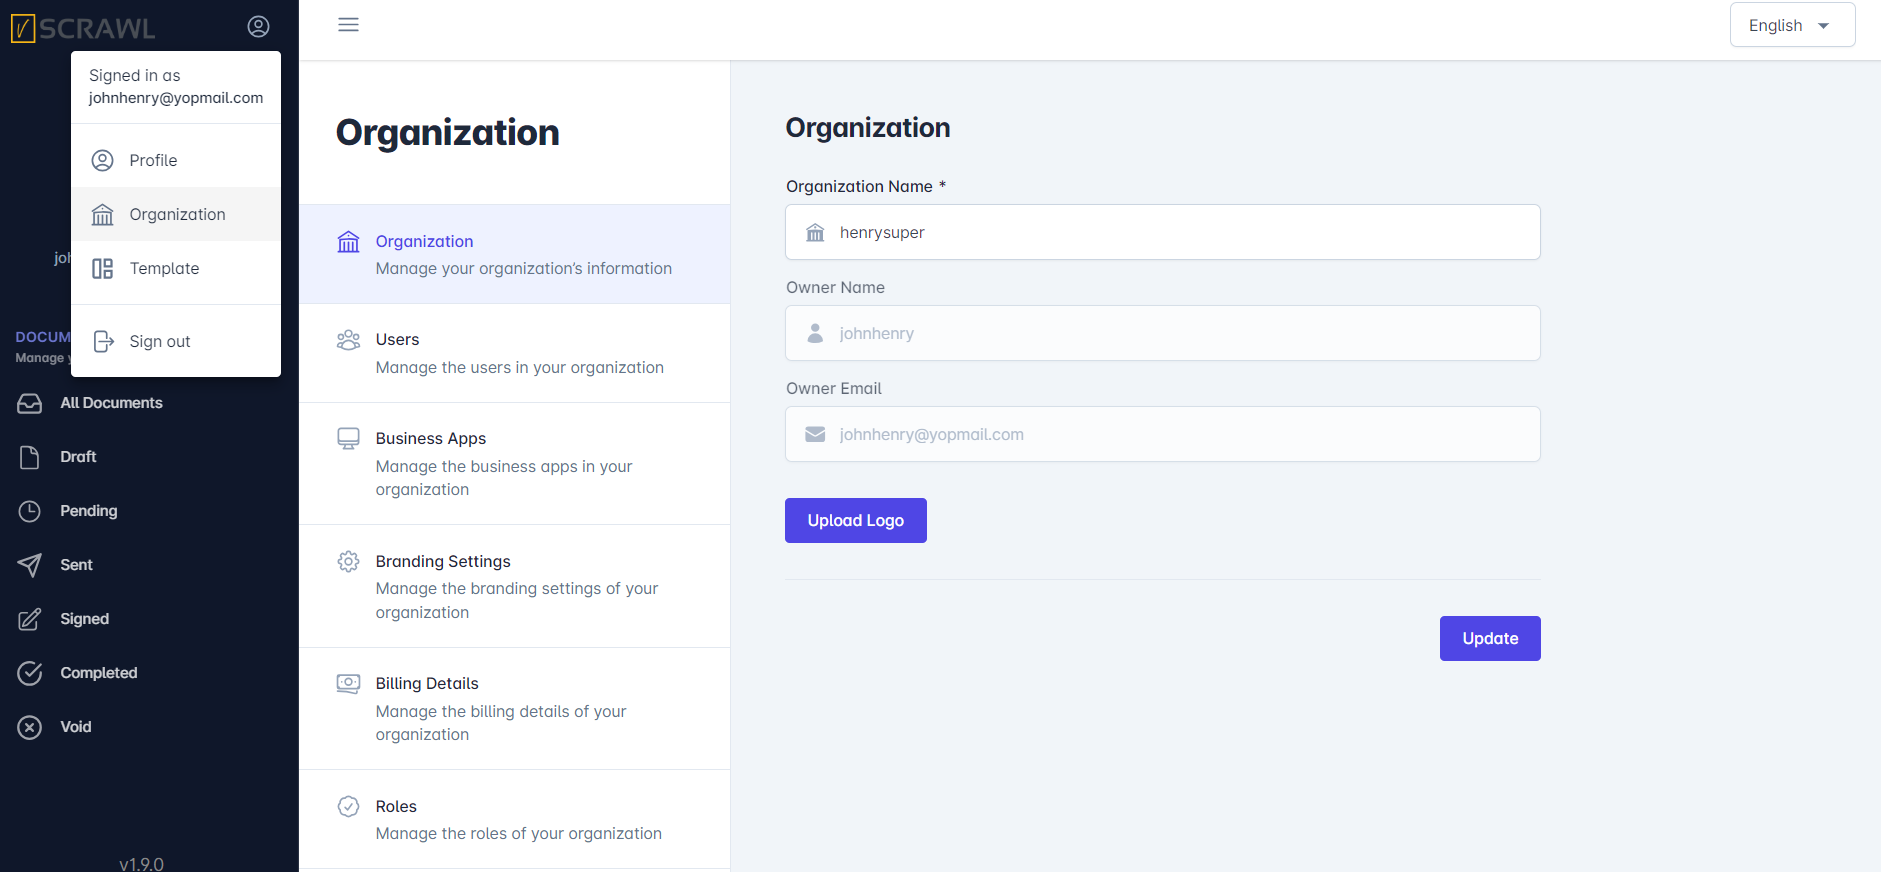
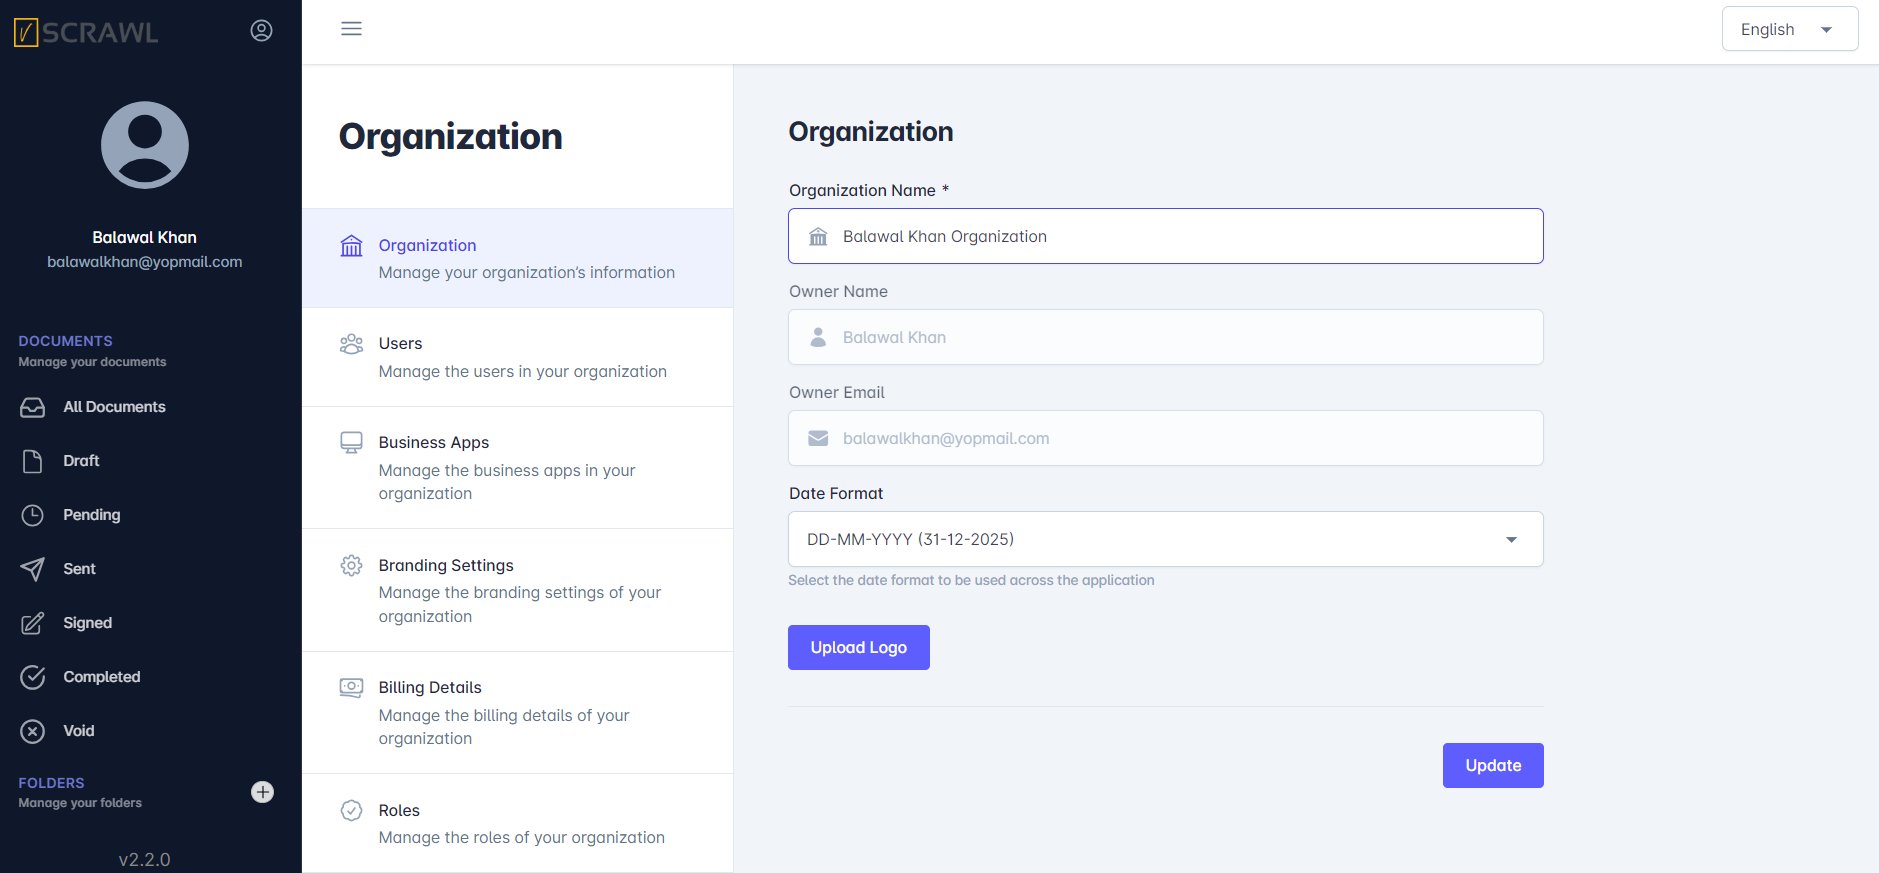
Including changes for Sprint 44

diff --git a/docs/settings.md b/docs/settings.md
@@ -26,8 +26,11 @@ The **Profile Settings page** in vScrawl allows you to manage your **account det
 ### Security Settings
 
 - Here you can set the security settings for your account by setting up:  
+    Enable PassKey
     Enable Security Question  
     Enable 2-Factor Authentication
+    Enable Smart Card Authentication
+    
 
 ![vScrawl Settings](../images/security-settings.png)
 
@@ -63,7 +66,6 @@ Here you can **choose** how you **receive updates**:
 
 ![vScrawl Settings](../images/notification-settings.png)
 
-
 ## Organization Specific Settings
 ### Organization
 
@@ -71,9 +73,12 @@ Here you can see the **organization details**:
 **Organization Name**  
 **Owner Name**  
 **Owner Email**
+**Date Format**
 
 ![vScrawl Settings](../images/organization-details.png)
 
+> [!NOTE]
+> Only the **Organization Owner** has the authority to update the organization details.
 
 ### Roles
 Here you can **add roles** with different **permissions** and will **assign that role for inviting a new user** to your **organization.** The **roles** you will create will appear hear in the list. You can search different **roles** by using the **search** option.
@@ -109,11 +114,16 @@ Here you can **add roles** with different **permissions** and will **assign that
 ### Business Apps
 
 - You can add Business App or any third party app with vScrawl by adding proper details of the app like:  
-    **Client ID**  
-    **App name**  
-    **Description**  
-    **Call back URL**  
-    **Status**
+    
+    **Client ID** - A unique identifier generated for the application to authenticate with vScrawl.
+    
+    **App name** - The display name of the business or third-party application.
+    
+    **Description** - A brief summary describing the purpose of the application.
+    
+    **Call back URL**  The URL where vScrawl redirects the user after successful authentication.
+    
+    **Status** - Indicates whether the application is active or inactive.
 
 ![vScrawl Settings](../images/business-app-in-organization.png)
 

diff --git a/docs/signin.md b/docs/signin.md
@@ -18,11 +18,30 @@ You can sign in using either **Google authentication** or **Key cloak authentica
 
 Alternatively, if your organization uses Key cloak, click **“Continue with Key cloak”** and enter your Key cloak username and password. Once authenticated, you will be redirected to the **vScrawl** **Dashboard**.
 
-## Sign Up/Sign In with the Smart Card Using the SmartXipher App
+## Signup / Sign-in with the Smart Card Using the SmartXipher App
 
 vScrawl provides secure authentication through **Smart Card login** using the **SmartXipher App**. This ensures strong identity verification and protects access to your account.
 
 When a user chooses to sign in with a **Smart Card**, the system verifies their **digital certificate** through **SmartXipher**. Once the **certificate** is validated, the user is securely logged into their **dashboard.**
 
 ![vScrawl Signin](../images/smart-card-login.png)
+
+## Sign-in Using Passkey
+
+To sign in to vScrawl using a passkey, first open the login page and enter your registered email address, then click **“Login with Passkey.”** A dialog titled **“Sign in using a saved passkey”** will appear, allowing you to choose how you want to authenticate. You can select **Windows Hello or an external security key** to sign in using your device’s fingerprint, face recognition, PIN, or a USB security key. 
+
+Alternatively, you can choose **Use a phone or tablet**, which will display a QR code on the screen; scan this QR code using your mobile phone and approve the sign-in using your device’s biometric authentication or screen lock. Once the authentication is successfully completed, you will be automatically logged in to your vScrawl account without entering a password.
+
+![vScrawl Signin](../images/pass-key-login.png)
+
+
+
+
+
+
+
+
+
+
+
 

diff --git a/docs/workflows.md b/docs/workflows.md
@@ -15,6 +15,10 @@ This is the most common and straightforward signing option.
 
 ![vScrawl Documents](../images/doc-prep-screen-with-filled-annations-2.png)
 
+> [!NOTE]
+> **Field Requirements:** Fields with the **Required Toggle (Right Panel)** set to **Enabled** must be filled to sign; otherwise, all fields are optional.
+
+
 - For the **New User** You have to **Choose how to create your signature:** Upload an **Image,** **Draw, or use Text.**
 
 ![vScrawl Documents](../images/signature-creation-screen-new-user.png)
@@ -30,6 +34,7 @@ This is the most common and straightforward signing option.
 - When you click on the View button on the **All Done notification.** You can view your **signatures** along with the **annotations on the document.**
 
 ![vScrawl Documents](../images/signed-document-aes-annotations.png)
+
 ## Digital Signatures
 In vScrawl, digital signatures provide a secure, reliable, and legally compliant way to sign documents, ensuring authenticity and trust at every step. The platform supports both **Advanced Electronic Signatures (AES)** and **Qualified Electronic Signatures (QES)**, offering flexibility depending on the level of assurance and compliance you require.
 
